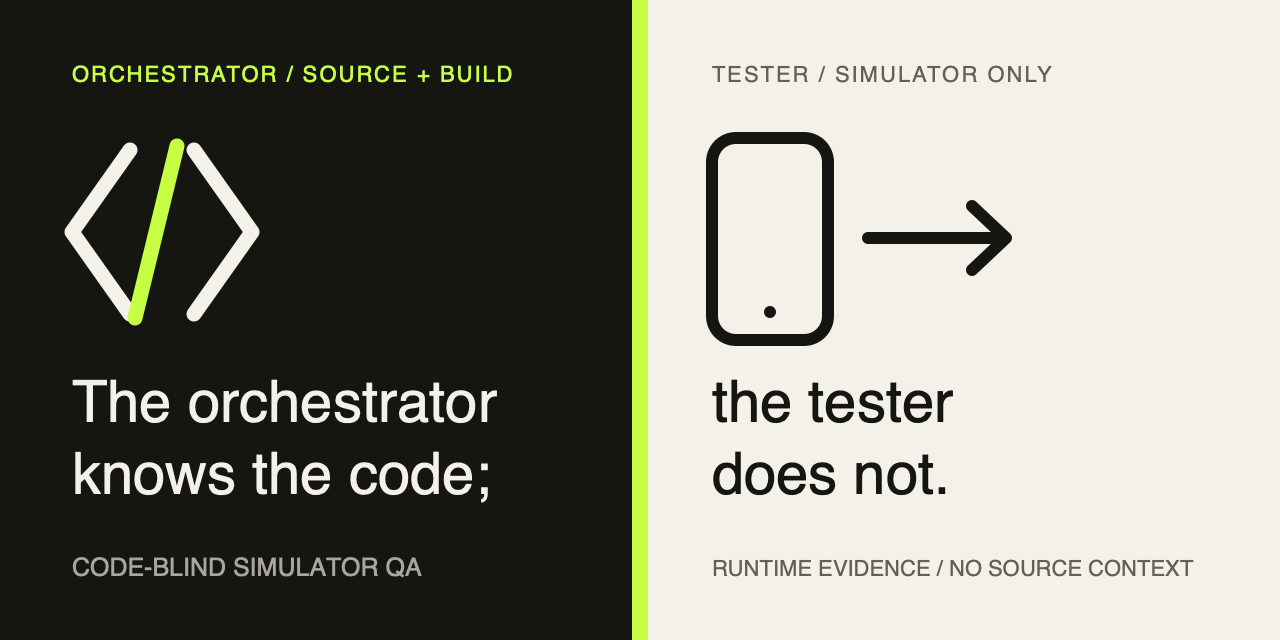
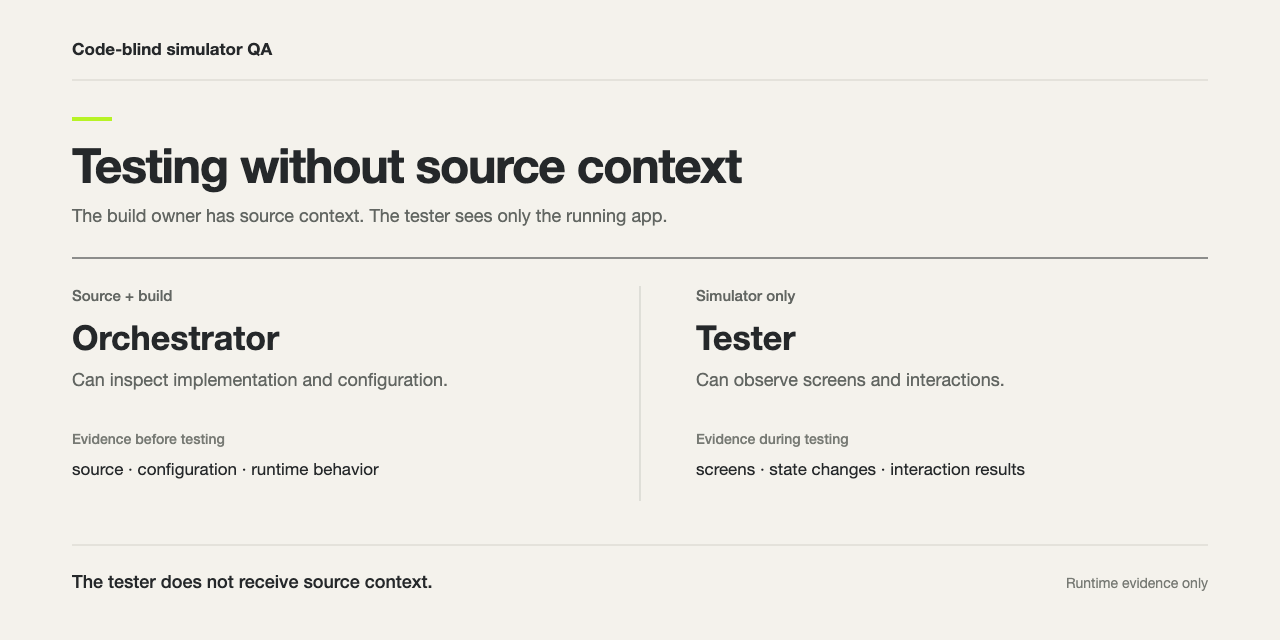
fix: simplify social preview typography

diff --git a/README.md b/README.md
@@ -1,10 +1,10 @@
 <p align="center">
-  <img src="assets/social-preview.svg" alt="Code-Blind Simulator QA: the orchestrator knows the code; the tester does not." width="100%">
+  <img src="assets/social-preview.svg" alt="Code-blind simulator QA: testing without source context" width="100%">
 </p>
 
 <h1 align="center">Code-Blind Simulator QA</h1>
 
-<p align="center"><strong>The orchestrator knows the code; the tester does not.</strong></p>
+<p align="center"><strong>Testing without source context.</strong></p>
 
 <p align="center">
   An Agent Skill for independent, runtime-only iOS Simulator testing.<br>
